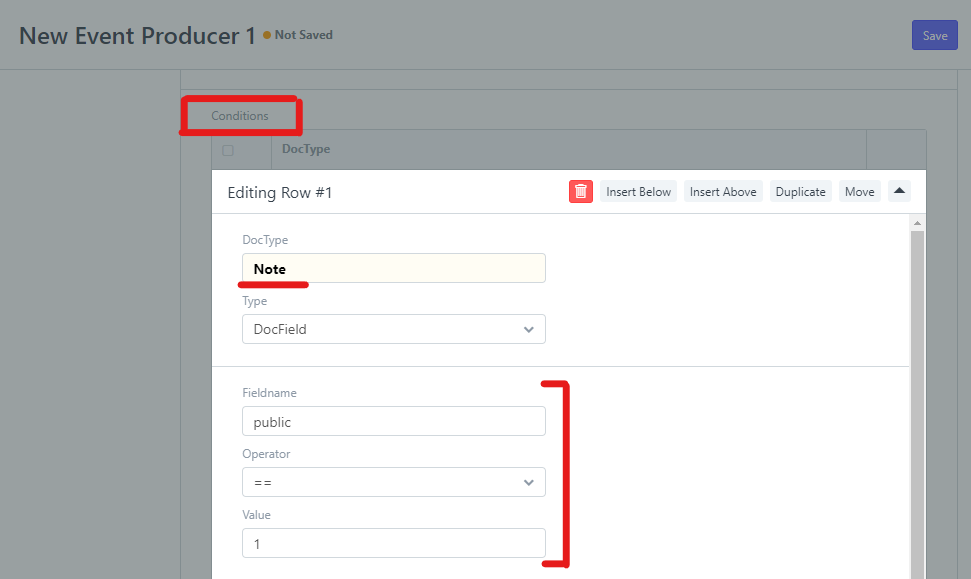
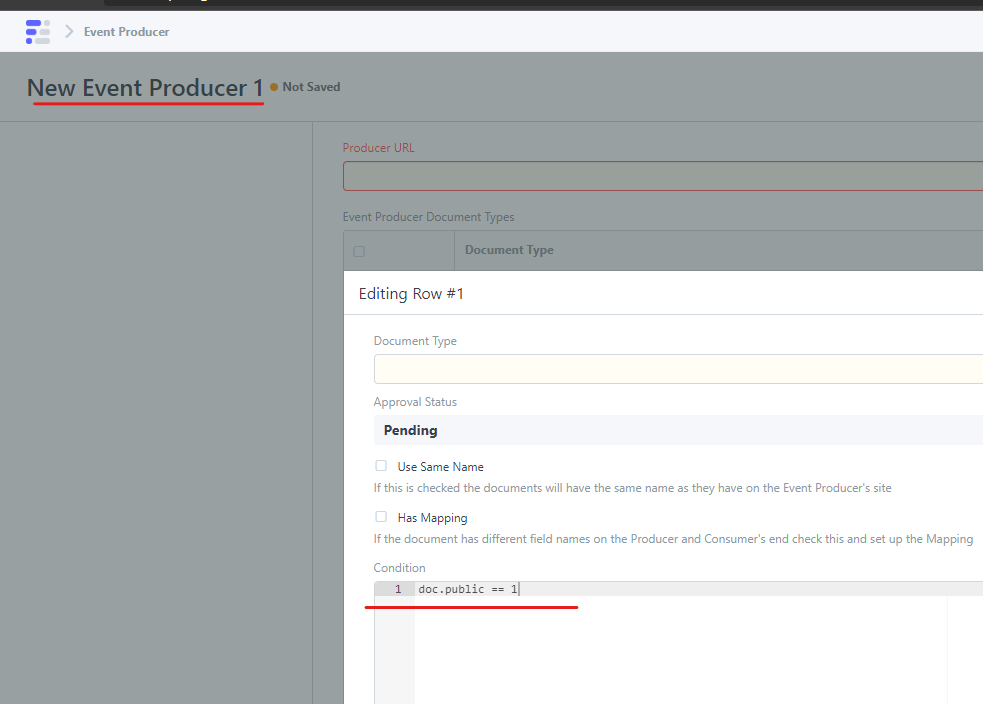
fix: Updated docs as per the changes in the PR

Changed region(s): [[0.0, 0.0, 1.0, 1.0], [0.3399, 0.1865, 1.0, 0.2487]]

diff --git a/erpnext_documentation/www/docs/user/manual/en/automation/event_streaming.md b/erpnext_documentation/www/docs/user/manual/en/automation/event_streaming.md
@@ -179,5 +179,10 @@ For example, if you would like to emit only those `Note` documents that are publ
 
 ![Child Table Mapping Link](/docs/assets/img/automation/event-streaming-conditions.png)
 
-- You can make use of `Event DocType Condition` doctype to specify global conditions for all Consumers.
-- If a document satisfies a condition down the line in its lifetime, all the old `Event Update Logs` are synced to the consumer
+> If a document satisfies a condition down the line in its lifetime, all the old `Event Update Logs` are synced to the consumer
+
+If you need more fine control over the conditions, you can hook up a custom function. Your function will be executed with parameters `consumer`, `doc` & `update_log`.
+
+```js
+cmd: my_custom_app.note.can_sync
+```
